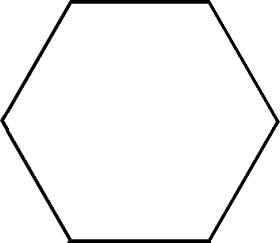
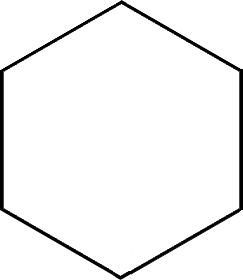
hex constructor

Changed region(s): [[0.0, 0.0, 1.0, 1.0]]

diff --git a/src/components/Map.js b/src/components/Map.js
@@ -13,9 +13,55 @@ export default class Map extends Component {
         return (
            <div>
                {        utils.sayHello('WebGL')}
-               <Stage width={500} height={500}>
-                   <Hex />
-                   <Text text="Vector text" x={20} y={10} key="2" />
+               <Stage width={1000} height={500}>
+                   <Hex x={0} y={-1}/>
+                   <Hex x={1} y={-1}/>
+                   <Hex x={2} y={-1}/>
+                   <Hex x={3} y={-1}/>
+                   <Hex x={4} y={-1}/>
+                   <Hex x={5} y={-1}/>
+                   <Hex x={6} y={-1}/>
+
+                   <Hex x={0} y={0}/>
+                   <Hex x={1} y={0}/>
+                   <Hex x={2} y={0}/>
+                   <Hex x={3} y={0}/>
+                   <Hex x={4} y={0}/>
+                   <Hex x={5} y={0}/>
+                   <Hex x={6} y={0}/>
+
+                   <Hex x={0} y={1}/>
+                   <Hex x={1} y={1}/>
+                   <Hex x={2} y={1}/>
+                   <Hex x={3} y={1}/>
+                   <Hex x={4} y={1}/>
+                   <Hex x={5} y={1}/>
+                   <Hex x={6} y={1}/>
+
+                   <Hex x={0} y={2}/>
+                   <Hex x={1} y={2}/>
+                   <Hex x={2} y={2}/>
+                   <Hex x={3} y={2}/>
+                   <Hex x={4} y={2}/>
+                   <Hex x={5} y={2}/>
+                   <Hex x={6} y={2}/>
+
+                   <Hex x={0} y={3}/>
+                   <Hex x={1} y={3}/>
+                   <Hex x={2} y={3}/>
+                   <Hex x={3} y={3}/>
+                   <Hex x={4} y={3}/>
+                   <Hex x={5} y={3}/>
+                   <Hex x={6} y={3}/>
+
+                   <Hex x={0} y={4}/>
+                   <Hex x={1} y={4}/>
+                   <Hex x={2} y={4}/>
+                   <Hex x={3} y={4}/>
+                   <Hex x={4} y={4}/>
+                   <Hex x={5} y={4}/>
+                   <Hex x={6} y={4}/>
+
                </Stage>;
            </div>
         )

diff --git a/src/components/Hex.js b/src/components/Hex.js
@@ -9,41 +9,39 @@ import {Point, DisplayObject, utils} from 'pixi.js';
 import * as Textures  from '../textures/Hex'
 
 export default class Hex extends Component {
-    get x12(){
-    return 12;
-        // const {x} = this.props;
-        // return x * this.width;
+    constructor(props){
+        super(props);
     }
 
-    get y12(){
+    get x(){
+        const {x, y, padding} = this.props;
 
-        return 12;
-        const {y} = this.props;
-        return y * this.height;
+        if(y % 2)
+            return x * (this.width + padding);
+        return x * (this.width + padding) - this.width/2
     }
 
-    get width12(){
+    get y(){
+        const {y, padding} = this.props;
+        if(y === 0)
+            return y * (this.height + padding);
+        return y * (this.height + padding) - (this.height/4)*y;
+    }
 
-        return 12;
+    get width(){
         const {width, zoom} = this.props;
         return width/zoom;
     }
 
-    get height12(){
-
-        return 12;
-        const {height, zoom} = this.props;
+    get height(){
+        const {height, zoom, y} = this.props;
         return height/zoom;
     }
 
     render() {
-        const {width, height, zoom, texture} = this.props;
-        console.info(Textures)
-        console.info(Textures[texture])
-        console.info(width)
-        console.info(height);
+        const {texture} = this.props;
         return (
-           <Sprite texture={Textures[texture]} width={width/zoom} height={height/zoom} />
+           <Sprite texture={Textures[texture]} x={this.x} y={this.y} width={this.width} height={this.height} />
         )
     }
 }
@@ -54,14 +52,16 @@ Hex.PropTypes = {
     width: PropTypes.number,
     height: PropTypes.number,
     texture: PropTypes.string,
-    zoom: PropTypes.number
+    zoom: PropTypes.number,
+    padding: PropTypes.number
 };
 
 Hex.defaultProps = {
-    zoom: 2,
-    width: 280,
+    zoom: 3,
+    width: 243,
     x: 0,
     y: 0,
-    height: 243,
+    height: 280,
+    padding: -2,
     texture: 'base'
 };
